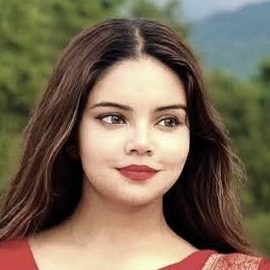
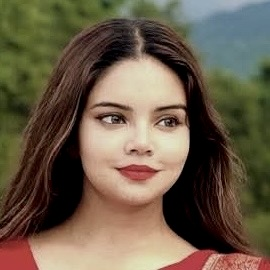
updated contact page and about photo

diff --git a/contact.html b/contact.html
@@ -202,7 +202,7 @@
             <div id="swupMain" class="mil-main-transition">
 
                 <!-- banner -->
-                <div class="mil-inner-banner mil-p-0-120">
+                <div class="mil-inner-banner mil-p-0-90">
                     <div class="mil-banner-content mil-center mil-up">
                         <div class="container">
                             <ul class="mil-breadcrumbs mil-center mil-mb-60">
@@ -219,8 +219,8 @@
                 <!-- banner end -->
 
                 <!-- banner image -->
-                <div class="mil-mb-120">
-                    <img src="./img/photo/contact.jpeg" width="100%" alt="GuyContrast banner image" class="mil-scale" data-value-1="1" data-value-2="1.5">
+                <div class="mil-mb-5">
+                    <img src="./img/photo/contact.png" width="100%" alt="GuyContrast banner image">
                 </div>
                 <!-- banner image end -->
 
@@ -234,7 +234,7 @@
 
                 <!-- contact form -->
                 <section id="contact">
-                    <div class="container mil-p-120-90">
+                    <div class="container mil-p-90-90">
                         <h3 class="mil-center mil-up mil-mb-120">Let's <span class="mil-thin">Talk</span></h3>
                         <form target="_blank" action="https://formsubmit.co/contact@subedisubigya.com.np" method="POST" class="row align-items-center">
                             <div class="col-lg-6 mil-up">

diff --git a/index.html b/index.html
@@ -270,7 +270,7 @@
                 
                                     <div class="mil-about-quote">
                                         <div class="mil-avatar mil-up">
-                                            <img src="img/photo/about_head.jpg" alt="The Guy with Contrast">
+                                            <img src="img/photo/about_head.jpeg" alt="The Guy with Contrast">
                                         </div>
                                         <h6 class="mil-quote mil-up">Passionately Creating <span class="mil-thin"> Wonders:</span> Unleashing <span class="mil-thin">Boundless Creativity</span></h6>
                                     </div>
@@ -282,7 +282,7 @@
                                 <div class="mil-about-photo mil-mb-90">
                                     <div class="mil-lines-place"></div>
                                     <div class="mil-up mil-img-frame" style="padding-bottom: 160%;">
-                                        <img src="img/photo/about_me.jpeg" alt="The Guy with Contrast" class="mil-scale" data-value-1="1" data-value-2="1.2">
+                                        <img src="img/photo/about_me.jpg" alt="The Guy with Contrast" class="mil-scale" data-value-1="1" data-value-2="1.2">
                                     </div>
                                 </div>
 
